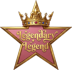
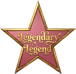
Portada AS2 con el fondo nuevo

diff --git a/js/historia/05-ia-y-retos-escritos.js b/js/historia/05-ia-y-retos-escritos.js
@@ -563,6 +563,15 @@ Devuelve JSON {"lineas":[{"reina":"nombre","t":"lo que dice (máximo 28 palabras
     ];
     liveRounds(el, { title: "El Roast", icon: "🔥", kind: "roast (chiste de humor ácido)", attr: "comedia", rounds, ph: "Tu chiste..." }, done);
   }
+  // En los retos de personaje nadie se llama por su nombre drag: se cambia cada nombre de reina por el de su personaje
+  function inChar(t, map) {
+    let out = String(t || "");
+    Object.keys(map).filter((k) => k && map[k]).sort((a, b) => b.length - a.length).forEach((k) => {
+      const re = new RegExp(k.replace(/[.*+?^${}()|[\]\\]/g, "\\$&"), "g");
+      out = out.replace(re, map[k]);
+    });
+    return out;
+  }
   // Snatch Game en directo: eliges (o inventas) personaje y contestas a Supremme escribiendo
   function liveSnatch(el, done) {
     const chars = shuffle(SNATCH_FAMOSOS).slice(0, 4);
@@ -584,19 +593,24 @@ Devuelve JSON {"lineas":[{"reina":"nombre","t":"lo que dice (máximo 28 palabras
       const plan = await IA.chat(
         `Eres la guionista del Snatch Game de Drag Race España: Supremme de Luxe hace preguntas absurdas a las concursantes, que imitan a celebridades famosas (cantantes, actrices, presentadoras, iconos pop o personajes de ficción muy conocidos; nunca políticos). Es una parodia cariñosa: se exagera su estilo y su forma de hablar, sin citar ni inventarle frases reales, sin inventar escándalos ni datos de su vida privada y sin nada ofensivo. ${aiSeason()}`,
         `La protagonista ${S.queen.name} imita a: ${name} (tono ${tono}). Las rivales en el plató: ${rivals.map((q) => `${q.name} (${aiProfile(q)} ${idTxt(q)})`).join(" | ")}.
-Elige para cada rival una celebridad famosa distinta (española o internacional, reconocible por el público) que le pegue según su identidad, y escribe 4 preguntas de Supremme (máximo 20 palabras, absurdas y con chispa). Para cada pregunta, la respuesta de cada rival en personaje (SOLO las rivales, nunca ${S.queen.name}, que contesta la jugadora) (máximo 22 palabras; que alguna falle a veces).
+Elige para cada rival una celebridad famosa distinta (española o internacional, reconocible por el público) que le pegue según su identidad, y escribe 4 preguntas de Supremme. Como en el programa, Supremme se dirige a cada concursante SOLO por el nombre de la celebridad que imita (a la protagonista la llama ${name}), NUNCA por su nombre drag, y las concursantes también se llaman entre ellas por el nombre de su personaje (máximo 20 palabras, absurdas y con chispa). Para cada pregunta, la respuesta de cada rival en personaje (SOLO las rivales, nunca ${S.queen.name}, que contesta la jugadora) (máximo 22 palabras; que alguna falle a veces).
 Devuelve JSON {"rivales":[{"reina":"nombre","personaje":"nombre de la celebridad"}],"preguntas":[{"q":"...","respuestas":[{"reina":"nombre","t":"..."}]}]}`,
         { json: true, max: 1600, temp: 1 },
       );
       const pregs = (plan && Array.isArray(plan.preguntas) && plan.preguntas.length >= 3 ? plan.preguntas.slice(0, 4) : shuffle(SNATCH_PREGUNTAS).slice(0, 4).map((q) => ({ q, respuestas: [] }))).map((p) => (typeof p === "string" ? { q: p, respuestas: [] } : p));
       const pj = {};
-      ((plan && plan.rivales) || []).forEach((x) => x && x.reina && (pj[x.reina] = str(x.personaje)));
+      ((plan && plan.rivales) || []).forEach((x) => x && x.reina && str(x.personaje).trim() && (pj[x.reina] = str(x.personaje)));
+      const used = new Set([name, ...Object.values(pj)]);
+      rivals.forEach((q) => { if (!pj[q.name]) { const c = shuffle(SNATCH_FAMOSOS).find((f) => !used.has(f.name)); if (c) { pj[q.name] = c.name; used.add(c.name); } } });
+      const nm = { [S.queen.name]: name, ...pj };
+      const sayIn = (t) => inChar(IA.clean(str(t)), nm);
+      const panel = rivals.map((q) => pj[q.name]).filter(Boolean);
       const rounds = pregs.map((p, i) => ({
-        prompt: `🎤 Supremme: «${IA.clean(str(p.q))}»`,
+        prompt: `🎤 Supremme: «${sayIn(p.q)}»`,
         sub: `Eres ${name}. Contesta como si fueras esa persona.`,
         pre: [
-          ...(i === 0 ? rivals.filter((q) => pj[q.name]).map((q) => ({ who: "Supremme", t: `${q.name} viene como ${pj[q.name]}.`, cls: "host" })) : []),
-          ...((p.respuestas || []).filter((x) => x && x.t && rivals.some((q) => q.name === str(x.reina))).slice(0, 2).map((x) => ({ who: `${str(x.reina)}${pj[str(x.reina)] ? ` (${pj[str(x.reina)]})` : ""}`, t: IA.clean(str(x.t)), cls: "rival" }))),
+          ...(i === 0 ? [{ who: "Supremme", t: `¡Bienvenidas al Snatch Game! Hoy tenemos en el plató a ${[...panel, name].join(", ").replace(/, ([^,]*)$/, " y $1")}.`, cls: "host" }] : []),
+          ...((p.respuestas || []).filter((x) => x && x.t && rivals.some((q) => q.name === str(x.reina))).slice(0, 2).map((x) => ({ who: `${pj[str(x.reina)] || str(x.reina)} (${str(x.reina)})`, t: sayIn(x.t), cls: "rival" }))),
         ],
         ctx: `Snatch Game. ${S.queen.name} interpreta a ${name}. Pregunta de Supremme: ${str(p.q)}. Valora la gracia, que se mantenga en el personaje elegido y el remate. En tu reacción no imites ni pongas frases en boca de ese personaje: solo comenta la actuación.`,
         // Tras cada respuesta: Supremme sigue el juego como presentadora y otra concursante contesta desde su personaje
@@ -605,14 +619,15 @@ Devuelve JSON {"rivales":[{"reina":"nombre","personaje":"nombre de la celebridad
           const q2 = others.length ? pick1(others) : null;
           const r2 = await IA.chat(
             `Eres la guionista del Snatch Game de Drag Race España. Supremme de Luxe presenta el concurso y las reinas están metidas en sus personajes. Nadie critica ni valora a nadie: todo es juego, chistes y pullas dentro del personaje. Las reinas imitan a celebridades en clave de parodia cariñosa: exageran su estilo y su forma de hablar, sin citar frases reales, sin inventar escándalos de su vida privada y sin nada ofensivo.`,
-            `Pregunta de Supremme: «${str(p.q)}». ${S.queen.name} (haciendo de ${name}) ha contestado: «${v}».${q2 ? ` En el panel también está ${q2.name}, que hace de ${pj[q2.name]}.` : ""}
-Devuelve JSON {"supremme":"lo que dice Supremme como presentadora siguiendo el juego (máximo 18 palabras, sin valorar)"${q2 ? `,"rival":"lo que suelta ${q2.name} metida en su personaje, picando o siguiendo la broma (máximo 18 palabras)"` : ""}}`,
+            `Pregunta de Supremme: «${sayIn(p.q)}». ${name} ha contestado: «${v}».${q2 ? ` En el panel también está ${pj[q2.name]}.` : ""}
+Supremme y las concursantes se llaman SOLO por el nombre de su personaje (${[name, ...panel].join(", ")}); nunca uses otros nombres.
+Devuelve JSON {"supremme":"lo que dice Supremme como presentadora siguiendo el juego (máximo 18 palabras, sin valorar)"${q2 ? `,"rival":"lo que suelta ${pj[q2.name]}, metida en su personaje, picando o siguiendo la broma (máximo 18 palabras)"` : ""}}`,
             { json: true, max: 220, temp: 1, timeout: 15000 },
           ).catch(() => null);
           if (!r2) return null;
           return [
-            r2.supremme ? { who: "Supremme", t: IA.clean(str(r2.supremme)), cls: "host" } : null,
-            q2 && r2.rival ? { who: `${q2.name} (${pj[q2.name]})`, t: IA.clean(str(r2.rival)), cls: "rival" } : null,
+            r2.supremme ? { who: "Supremme", t: sayIn(r2.supremme), cls: "host" } : null,
+            q2 && r2.rival ? { who: `${pj[q2.name]} (${q2.name})`, t: sayIn(r2.rival), cls: "rival" } : null,
           ];
         },
       }));
@@ -636,42 +651,49 @@ Devuelve JSON {"supremme":"lo que dice Supremme como presentadora siguiendo el j
     IA.chat(
       `Eres la directora del reto de improvisación de Drag Race España: un grupo de reinas improvisa una escena cómica, cada una con un personaje. ${aiSeason()}`,
       `El grupo: ${S.queen.name} (la jugadora) y ${mates.map((q) => `${q.name} (${aiProfile(q)} ${idTxt(q)})`).join(" | ")}.
-Inventa una escena cómica y concreta (lugar y conflicto). Si la escena es de teletienda o anuncio, ${prodHint(prodI)} y escríbelo en "producto" (si no, deja "producto" vacío). Un personaje para cada rival que encaje con su identidad, y 3 personajes posibles para ${S.queen.name}. Cada personaje en una frase corta de 12 palabras como máximo.
-Devuelve JSON {"escena":"premisa en 25 palabras","producto":"","personajes":[{"reina":"nombre","personaje":"..."}],"opciones":["...","...","..."]}`,
+Inventa una escena cómica y concreta (lugar y conflicto). Si la escena es de teletienda o anuncio, ${prodHint(prodI)} y escríbelo en "producto" (si no, deja "producto" vacío). Un personaje para cada rival que encaje con su identidad, y 3 personajes posibles para ${S.queen.name}. Cada personaje tiene un nombre inventado (por ejemplo «Doña Remedios» o «la Condesa de Albacete»), NUNCA el nombre de una reina, y una descripción corta de 12 palabras como máximo.
+Devuelve JSON {"escena":"premisa en 25 palabras","producto":"","personajes":[{"reina":"nombre de la reina","nombre":"nombre del personaje","personaje":"descripción"}],"opciones":[{"nombre":"nombre del personaje","personaje":"descripción"}]}`,
       { json: true, max: 700, temp: 1 },
     ).then((plan) => {
       if (!plan || !plan.escena) return liveImproSolo(el, done);
       logEv(`Escena de la impro: ${cutWords(IA.clean(str(plan.escena)), 160)}`);
       if (str(plan.producto).trim()) logEv(`En la escena se vende: ${cutWords(IA.clean(str(plan.producto)), 80)}`);
-      const pj = {};
-      (Array.isArray(plan.personajes) ? plan.personajes : []).forEach((x) => x && x.reina && (pj[str(x.reina)] = cutWords(IA.clean(str(x.personaje)), 110)));
-      mates.forEach((q) => (pj[q.name] = pj[q.name] || "un personaje secundario"));
-      const opts = (Array.isArray(plan.opciones) ? plan.opciones : []).map((x) => cutWords(IA.clean(str(x)), 150)).filter(Boolean).slice(0, 3);
+      const pj = {}, pn = {};
+      const queens = [S.queen, ...S.rivals].map((q) => q.name);
+      const okName = (n) => n && !queens.includes(n);
+      (Array.isArray(plan.personajes) ? plan.personajes : []).forEach((x) => { if (!x || !x.reina) return; pj[str(x.reina)] = cutWords(IA.clean(str(x.personaje)), 110); const n = cutWords(IA.clean(str(x.nombre)), 40); if (okName(n)) pn[str(x.reina)] = n; });
+      const spare = shuffle(["Doña Remedios", "la Condesa de Albacete", "Mari Puri", "la Duquesa de Cuenca", "Encarni la del quinto", "Madame Lulú", "la Baronesa Von Tacón"]);
+      mates.forEach((q) => { pj[q.name] = pj[q.name] || "un personaje secundario"; pn[q.name] = pn[q.name] || spare.find((n) => !Object.values(pn).includes(n)); });
+      const opts = (Array.isArray(plan.opciones) ? plan.opciones : []).map((x) => typeof x === "string" ? { n: cutWords(IA.clean(x), 60), d: "" } : x && { n: cutWords(IA.clean(str(x.nombre)), 40), d: cutWords(IA.clean(str(x.personaje)), 110) }).filter((o) => o && okName(o.n)).slice(0, 3);
       el.innerHTML = `
         <div class="story-card live">
           <p class="eyebrow">📺 Improvisación en grupo</p>
           <h3>${esc(IA.clean(str(plan.escena)))}</h3>
-          <div class="impro-cast">${mates.map((q) => `<span><i style="background-image:url('${photo(q)}')"></i><b>${esc(q.name)}</b><small>${esc(pj[q.name])}</small></span>`).join("")}</div>
+          <div class="impro-cast">${mates.map((q) => `<span><i style="background-image:url('${photo(q)}')"></i><b>${esc(pn[q.name])}</b><small>${esc(q.name)} · ${esc(pj[q.name])}</small></span>`).join("")}</div>
           <p class="muted">¿Qué personaje eres tú?</p>
-          <div class="choice-col">${opts.map((o, i) => `<button class="btn btn-ghost" data-o="${i}">${esc(o)}</button>`).join("")}</div>
+          <div class="choice-col">${opts.map((o, i) => `<button class="btn btn-ghost role" data-o="${i}"><b>${esc(o.n)}</b>${o.d ? `<small>${esc(o.d)}</small>` : ""}</button>`).join("")}</div>
           <form class="ft-form"><input id="im-own" maxlength="80" autocomplete="off" placeholder="O inventa tu personaje..."><button class="btn btn-primary">Usar</button></form>
         </div>`;
       el.querySelectorAll("[data-o]").forEach((b) => b.addEventListener("click", () => play(opts[+b.dataset.o])));
-      el.querySelector(".ft-form").addEventListener("submit", (e) => { e.preventDefault(); const v = el.querySelector("#im-own").value.trim(); if (v) play(v); });
-      function play(mine) {
+      el.querySelector(".ft-form").addEventListener("submit", (e) => { e.preventDefault(); const v = el.querySelector("#im-own").value.trim(); if (v) play({ n: v, d: "" }); });
+      function play(me) {
+        const mine = me.d ? `${me.n}, ${me.d}` : me.n;
+        pn[S.queen.name] = me.n;
+        const sayIn = (t) => inChar(IA.clean(str(t)), pn);
         const scene = IA.clean(str(plan.escena));
         const log = [];
         let turn = 0, mineN = 0;
         const TURNS = 5;
-        const castTxt = () => [`${S.queen.name} (jugadora) es ${mine}`, ...mates.map((q) => `${q.name} es ${pj[q.name]}. ${idTxt(q)}`)].join(". ");
-        const transcript = () => log.map((m) => `${m.who}: ${m.t}`).join("\n");
+        const castTxt = () => [`${S.queen.name} (jugadora) hace de ${mine}`, ...mates.map((q) => `${q.name} hace de ${pn[q.name]}, ${pj[q.name]}. ${idTxt(q)}`)].join(". ");
+        const transcript = () => log.map((m) => `${pn[m.who] || m.who} [${m.who}]: ${m.t}`).join("\n");
+        const nameRule = `En la escena se llaman SOLO por el nombre de su personaje (${Object.values(pn).join(", ")}), NUNCA por el nombre drag de la reina que lo interpreta.`;
         const draw = (wait) => {
           el.innerHTML = `
             <div class="story-card live">
               <p class="eyebrow">📺 Improvisación en grupo · ${Math.min(turn + 1, TURNS)}/${TURNS}</p>
               <p class="muted"><b>Escena:</b> ${esc(scene)} · <b>Tú:</b> ${esc(mine)}</p>
-              <div class="live-log">${log.map((m) => `<p class="lv ${m.me ? "me" : "rival"}"><b>${esc(m.who)}${m.me ? "" : ` · ${esc(pj[m.who] || "")}`}</b>${esc(m.t)}</p>`).join("")}${wait ? `<div class="ia-dots"><i></i><i></i><i></i></div>` : ""}</div>
-              ${wait ? "" : `<form class="ft-form"><input id="lv-in" maxlength="220" autocomplete="off" placeholder="Lo que dice o hace ${esc(mine)}..."><button class="btn btn-primary">¡En escena!</button></form>`}
+              <div class="live-log">${log.map((m) => `<p class="lv ${m.me ? "me" : "rival"}"><b>${esc(pn[m.who] || m.who)} (${m.me ? "tú" : esc(m.who)})</b>${esc(m.t)}</p>`).join("")}${wait ? `<div class="ia-dots"><i></i><i></i><i></i></div>` : ""}</div>
+              ${wait ? "" : `<form class="ft-form"><input id="lv-in" maxlength="220" autocomplete="off" placeholder="Lo que dice o hace ${esc(me.n)}..."><button class="btn btn-primary">¡En escena!</button></form>`}
             </div>`;
           const box = el.querySelector(".live-log");
           if (box) box.scrollTop = box.scrollHeight;
@@ -683,14 +705,14 @@ Devuelve JSON {"escena":"premisa en 25 palabras","producto":"","personajes":[{"r
         async function others() {
           draw(true);
           const r = await IA.chat(
-            `Escribes las intervenciones de las rivales en una improvisación en grupo de Drag Race España. Cada una habla SOLO como su personaje, reaccionando a lo último que ha pasado, siguiendo la escena y dando pie a la jugadora. Nunca escribas lo que dice ${S.queen.name}.`,
+            `Escribes las intervenciones de las rivales en una improvisación en grupo de Drag Race España. Cada una habla SOLO como su personaje, reaccionando a lo último que ha pasado, siguiendo la escena y dando pie a la jugadora. Nunca escribas lo que dice ${S.queen.name}. ${nameRule}`,
             `Escena: ${scene}\nReparto: ${castTxt()}\n${log.length ? `Lo que ha pasado:\n${transcript()}` : "La escena empieza ahora."}\n${turn === TURNS - 1 ? "Es el último turno: buscad un final." : ""}
 Devuelve JSON {"lineas":[{"reina":"nombre de una rival","t":"lo que dice o hace (máximo 25 palabras)"}]} con 1 o 2 intervenciones.`,
             { json: true, max: 400, temp: 1 },
           );
           const ls = (r && Array.isArray(r.lineas) ? r.lineas : []).filter((x) => x && mates.some((q) => q.name === str(x.reina)) && str(x.t).trim()).slice(0, 2);
           if (!ls.length) ls.push({ reina: mates[0].name, t: pick1(["¿Y ahora qué hacemos?", "¡Esto no estaba en el guion!", "Bueno, yo sigo, que el público espera."]) });
-          ls.forEach((x) => log.push({ who: str(x.reina), t: IA.clean(str(x.t)) }));
+          ls.forEach((x) => log.push({ who: str(x.reina), t: sayIn(x.t) }));
           draw();
         }
         function mineLine(v) {
@@ -704,7 +726,7 @@ Devuelve JSON {"lineas":[{"reina":"nombre de una rival","t":"lo que dice o hace 
           draw(true);
           const r = await IA.chat(
             `Eres el jurado de Drag Race España valorando una improvisación en grupo. Valora a cada reina por separado: gracia, escucha (si reacciona a las demás), personaje y si hace avanzar la escena. Un aporte vacío o que ignora la escena puntúa bajo (10-35); correcto 50-65; brillante 75-95.`,
-            `Escena: ${scene}\nReparto: ${castTxt()}\nTranscripción:\n${transcript()}\nDevuelve JSON {"notas":[{"reina":"nombre","nota":0-100}],"supreme":"comentario de Supremme sobre la escena (máximo 30 palabras, sin notas, números ni posiciones)","mejor":"nombre de la que más ha destacado"}`,
+            `Escena: ${scene}\nReparto: ${castTxt()}\nTranscripción:\n${transcript()}\nDevuelve JSON {"notas":[{"reina":"nombre","nota":0-100}],"supreme":"comentario de Supremme sobre la escena (máximo 30 palabras, sin notas, números ni posiciones; si nombra a alguien, por el nombre de su personaje)","mejor":"nombre de la que más ha destacado"}`,
             { json: true, max: 400, temp: 0.6 },
           );
           const notas = {};
@@ -716,8 +738,8 @@ Devuelve JSON {"lineas":[{"reina":"nombre de una rival","t":"lo que dice o hace 
           el.innerHTML = `
             <div class="story-card live">
               <p class="eyebrow">📺 Improvisación en grupo · resultado</p>
-              <div class="live-log">${log.map((m) => `<p class="lv ${m.me ? "me" : "rival"}"><b>${esc(m.who)}</b>${esc(m.t)}</p>`).join("")}</div>
-              ${(juryNote(r && r.supreme), juryWait)}
+              <div class="live-log">${log.map((m) => `<p class="lv ${m.me ? "me" : "rival"}"><b>${esc(pn[m.who] || m.who)} (${m.me ? "tú" : esc(m.who)})</b>${esc(m.t)}</p>`).join("")}</div>
+              ${(juryNote(r && r.supreme && sayIn(r.supreme)), juryWait)}
               <div class="impro-cast">${[{ q: S.queen, n: myN }, ...mates.map((q) => ({ q, n: notas[q.name] }))].map((x) => `<span><i style="background-image:url('${photo(x.q)}')"></i><b>${esc(x.q === S.queen ? "Tú" : x.q.name)}</b><small></small></span>`).join("")}</div>
               <button class="btn btn-primary" id="lv-done">Continuar</button>
             </div>`;
@@ -737,7 +759,7 @@ Devuelve JSON {"lineas":[{"reina":"nombre de una rival","t":"lo que dice o hace 
     IA.chat(
       `Eres guionista del reto de interpretación de Drag Race España, dirigido por los Javis. Escribes una escena corta con guion cerrado (no se improvisa), parodia de un género, con humor drag. ${aiSeason()}`,
       `Reparto disponible: ${S.queen.name} (la jugadora) y ${mates.map((q) => q.name).join(", ")} (${mates.length + 1} actrices).
-Los papeles son personajes de ficción con nombres inventados (por ejemplo «Doña Remedios» o «la Condesa de Albacete»), NUNCA los nombres de las reinas.
+Los papeles son personajes de ficción con nombres inventados (por ejemplo «Doña Remedios» o «la Condesa de Albacete»), NUNCA los nombres de las reinas. En el guion los personajes se llaman entre sí SOLO por el nombre de su papel.
 ${/teletienda/i.test(S.curTitulo || "") ? `Es una parodia de teletienda. ${prodHint(S.weekProd = nextProducto())} ` : ""}Escribe: título, género, sinopsis, ${mates.length + 1} papeles (uno protagonista de peso grande, dos o tres de peso medio y el resto pequeño) y un guion de ${Math.max(9, mates.length * 2 + 3)} a ${Math.max(12, mates.length * 2 + 6)} líneas repartidas entre TODOS los papeles (el protagonista con 3 o 4 líneas, cada papel al menos con 1). Cada línea lleva el tono correcto según la acotación (dramatico, comico, contenido o exagerado), una acotación breve y una "clave": una palabra o expresión corta y memorable que aparece literalmente en esa línea.
 Devuelve JSON {"titulo":"...","genero":"...","sinopsis":"...","papeles":[{"papel":"nombre del personaje","descripcion":"...","peso":"grande|medio|pequeño"}],"guion":[{"papel":"...","t":"texto de la línea","acotacion":"...","tono":"dramatico|comico|contenido|exagerado","clave":"..."}]}`,
       { json: true, max: 3600, temp: 1, timeout: 40000 },
@@ -775,6 +797,10 @@ Devuelve JSON {"titulo":"...","genero":"...","sinopsis":"...","papeles":[{"papel
         if (lead) cast[str(lead.papel)] = rival;
         const others = roles.filter((r) => !cast[str(r.papel)]);
         mates.filter((q) => q !== (lead && rival)).forEach((q, i) => others[i] && (cast[str(others[i].papel)] = q));
+        // En el guion se llaman por el papel, nunca por el nombre drag
+        const nmA = {};
+        Object.entries(cast).forEach(([papel, q]) => q && (nmA[q.name] = papel));
+        lines.forEach((l) => (l.t = inChar(str(l.t), nmA)));
         rehearse(g, mine, cast, lines, note);
       }));
     }
@@ -911,14 +937,16 @@ Devuelve JSON {"ambrossi":"comentario a ${S.queen.name} (máximo 30 palabras)","
       const guest = pick1(S.rivals);
       aiWait("Preparando el plató...", el);
       const prod = sec === "teletienda" ? nextProducto() : null;
-      logEv(prod ? `Teletienda: ${S.queen.name} vende ${prod}` : `Impro: ${S.queen.name} conduce la sección de ${sec}${sec === "entrevista" ? ` con ${guest.name} de invitada` : ""}`);
-      const ev = await IA.chat("Eres la regidora de un programa de televisión improvisado en Drag Race España.", `La sección es ${sec}${sec === "entrevista" ? ` y la invitada es ${guest.name}` : ""}.${prod ? ` ${prodHint(prod)} La presentadora lo tiene que vender.` : ""} Escribe 3 imprevistos o preguntas cortas (máximo 18 palabras cada una) que obliguen a la presentadora a improvisar. Devuelve JSON con "momentos": lista de 3 textos.`, { json: true, max: 200 });
-      const moms = (ev && Array.isArray(ev.momentos) && ev.momentos.length >= 3 ? ev.momentos : ["El teleprompter se apaga en mitad de la frase.", "Se cae un decorado detrás de ti.", "La regidora te dice que te quedan 10 segundos."]).slice(0, 3).map(IA.clean);
+      logEv(prod ? `Teletienda: ${S.queen.name} vende ${prod}` : `Impro: ${S.queen.name} conduce la sección de ${sec}${sec === "entrevista" ? ` con ${guest.name} de invitada, en personaje` : ""}`);
+      const ev = await IA.chat("Eres la regidora de un programa de televisión improvisado en Drag Race España.", `La sección es ${sec}${sec === "entrevista" ? `. La invitada la interpreta ${guest.name} (${aiProfile(guest)}): inventa su personaje, con un nombre inventado que NO sea el de ninguna reina, y en los imprevistos llámala solo por ese nombre` : ""}.${prod ? ` ${prodHint(prod)} La presentadora lo tiene que vender.` : ""} Escribe 3 imprevistos o preguntas cortas (máximo 18 palabras cada una) que obliguen a la presentadora a improvisar. Devuelve JSON con "momentos": lista de 3 textos${sec === "entrevista" ? `, e "invitada": el nombre del personaje` : ""}.`, { json: true, max: 260 });
+      const gn = sec === "entrevista" ? ((ev && str(ev.invitada).trim() && ![S.queen, ...S.rivals].some((q) => q.name === str(ev.invitada).trim())) ? cutWords(IA.clean(str(ev.invitada)), 40) : pick1(SNATCH_PERSONAJES).name) : "";
+      const gIn = (t) => inChar(IA.clean(str(t)), { [guest.name]: gn });
+      const moms = (ev && Array.isArray(ev.momentos) && ev.momentos.length >= 3 ? ev.momentos : ["El teleprompter se apaga en mitad de la frase.", "Se cae un decorado detrás de ti.", "La regidora te dice que te quedan 10 segundos."]).slice(0, 3).map((m) => (gn ? gIn(m) : IA.clean(m)));
       const rounds = moms.map((m, i) => ({
         prompt: `${i === 0 && prod ? `🛒 Vendes ${prod}. ` : ""}🔴 ${m}`,
         sub: "¡Estás en directo! ¿Qué dices?",
-        ctx: `Improvisación en directo, sección ${sec}${sec === "entrevista" ? ` con la invitada ${guest.name}` : ""}${prod ? ` vendiendo ${prod}` : ""}. Imprevisto: ${m}`,
-        after: sec === "entrevista" ? async (v) => { const rep = await IA.chat(`Hablas SOLO como ${guest.name}, invitada a una entrevista en directo. ${aiProfile(guest)}`, `La presentadora ${S.queen.name} te dice: «${v}». Contesta en una frase corta y graciosa (máximo 15 palabras).`, { max: 50 }); return rep ? { who: guest.name, t: rep, cls: "rival" } : null; } : null,
+        ctx: `Improvisación en directo, sección ${sec}${sec === "entrevista" ? ` con la invitada ${gn}` : ""}${prod ? ` vendiendo ${prod}` : ""}. Imprevisto: ${m}`,
+        after: sec === "entrevista" ? async (v) => { const rep = await IA.chat(`Hablas SOLO como ${gn}, el personaje que interpreta ${guest.name}, invitada a una entrevista en directo. ${aiProfile(guest)} Nunca digas nombres drag de las reinas.`, `La presentadora te dice: «${v}». Contesta en una frase corta y graciosa (máximo 15 palabras).`, { max: 50 }); return rep ? { who: `${gn} (${guest.name})`, t: gIn(rep), cls: "rival" } : null; } : null,
       }));
       el.innerHTML = "";
       liveRounds(el, { title: "Improvisación", icon: "📺", kind: "improvisación televisiva", attr: "carisma", rounds, ph: "Lo que dices en directo..." }, (sc) => { if (sc >= 80) growAttr(sc > 90 ? "comedia" : "carisma"); done(sc); });
@@ -965,7 +993,7 @@ Devuelve JSON {"ambrossi":"comentario a ${S.queen.name} (máximo 30 palabras)","
     IA.chat(
       `Eres la guionista y letrista del Rusical de Drag Race España: un musical paródico, cantado, con humor drag. ${aiSeason()}`,
       `Tema del Rusical: ${tema}. Reparto: ${S.queen.name} (la jugadora) y ${mates.map((q) => q.name).join(", ")} (${mates.length + 1} reinas).
-Los papeles son personajes de ficción con nombres inventados (el campo "papel" es el nombre del personaje, nunca su peso), NUNCA los nombres de las reinas.
+Los papeles son personajes de ficción con nombres inventados (el campo "papel" es el nombre del personaje, nunca su peso), NUNCA los nombres de las reinas. En la letra los personajes se llaman SOLO por el nombre de su papel.
 Escribe: título, sinopsis (máximo 25 palabras), ${mates.length + 1} papeles (uno protagonista de peso "grande", el resto "medio" o "pequeño") qué papel quiere cada rival (${mates.map((q) => q.name).join(", ")}) con una frase suya, natural y en su estilo (máximo 20 palabras), en la que se lo cuenta a ${S.queen.name}, y la letra: entre ${Math.max(7, mates.length + 4)} y ${Math.max(9, mates.length + 6)} estrofas en orden, repartidas entre los papeles (el protagonista con 3, cada uno de los demás con al menos 1). Cada estrofa son 2 versos cortos (máximo 10 palabras cada uno) que riman entre sí.
 Devuelve JSON {"titulo":"...","sinopsis":"...","papeles":[{"papel":"...","descripcion":"...","peso":"grande|medio|pequeño"}],"deseos":[{"reina":"nombre","papel":"...","frase":"..."}],"letra":[{"papel":"...","versos":["...","..."]}]}`,
       { json: true, max: 3200, temp: 1, timeout: 40000 },

diff --git a/js/historia/09-maxirretos-y-api.js b/js/historia/09-maxirretos-y-api.js
@@ -3,6 +3,16 @@
     if (IA.ready() && !mxSnatch.classic) return aiOrClassic(el, "Snatch Game", "🎭", () => liveSnatch(el, done), () => { mxSnatch.classic = true; mxSnatch(el, (sc) => { mxSnatch.classic = false; done(sc); }); });
     const chars = shuffle(SNATCH_PERSONAJES).slice(0, 3);
     const qs = shuffle(SNATCH_PREGUNTAS).slice(0, 5);
+    // En el plató cada rival es su personaje: se la nombra así, nunca por su nombre drag
+    const rc = (st, r) => {
+      st.rc = st.rc || {};
+      if (!st.rc[r.id]) {
+        const taken = [st.char, ...Object.values(st.rc)];
+        const c = shuffle(SNATCH_PERSONAJES).find((x) => !taken.includes(x)) || pick1(SNATCH_PERSONAJES);
+        st.rc[r.id] = c;
+      }
+      return st.rc[r.id].name;
+    };
     const steps = [
       () => ({
         q: "🎭 ¿A quién imitas?",
@@ -15,7 +25,7 @@
         steps.push((st) => {
           const r = pick1(S.rivals);
           return {
-            q: `😶 ${esc(r.name)} se queda en blanco...`,
+            q: `😶 ${esc(rc(st, r))} se queda en blanco...`,
             sub: "Hay un silencio incómodo en el plató. ¿Aprovechas?",
             opts: [
               { t: "🎯 Robar la atención y rematar el chiste", d: "Comedia + Carisma", go: (s) => { s.focus += 18; const c = check(["comedia", "carisma"], 58); if (c.ok) changeRel(r, -1); return res(c, 100, 22, "¡Remate perfecto! Te llevas la risa.", "Intentas rematar... y la pisas. Nadie se ríe."); } },
@@ -31,7 +41,7 @@
           sub: `Eres <b>${esc(ch.name)}</b>. Pregunta ${n + 1}/5.`,
           opts: [
             { t: `😂 «${esc(pick1(ch.frases))}»`, d: "Comedia absurda", tag: "Comedia", go: (s) => { s.focus += 14; return res(check(["comedia"], 52), 90, 30, "¡Carcajada general!", "Nadie lo pilla. Grillos."); } },
-            { t: `⚡ Replicar a ${esc(r.name)}`, d: "Carisma · sube mucho el foco y crea drama", tag: "Carisma", go: (s) => { s.focus += 24; s.drama = (s.drama || 0) + 1; changeRel(r, -1); return res(check(["carisma"], 55), 94, 34, `¡Le has dado un zasca a ${esc(r.name)} y el plató explota!`, "La réplica suena a ataque. Tensión, no risas."); } },
+            { t: `⚡ Replicar a ${esc(rc(st, r))}`, d: "Carisma · sube mucho el foco y crea drama", tag: "Carisma", go: (s) => { s.focus += 24; s.drama = (s.drama || 0) + 1; changeRel(r, -1); return res(check(["carisma"], 55), 94, 34, `¡Le has dado un zasca a ${esc(rc(st, r))} y el plató explota!`, "La réplica suena a ataque. Tensión, no risas."); } },
             { t: `🛡 «${esc(pick1(SNATCH_PLANAS))}»`, d: "Respuesta segura", tag: "Segura", go: (s) => { s.focus -= 12; return { pts: 48, msg: "Correcta. Poco memorable." }; } },
           ],
         };

diff --git a/js/historia/01-flujo-y-relaciones.js b/js/historia/01-flujo-y-relaciones.js
@@ -154,7 +154,7 @@
           })() : ""}
           ${(() => {
             // All Winners: lo que cuenta son las estrellas
-            if (se.special === "winners" || (seasonById(d.season) || {}).special === "winners") { const st = (d.stars || {}).me || 0; return `<p class="muted ll-count">${st ? `<img src="./images/legendary-star-sm.png" alt=""> ${st} ${st === 1 ? "Legendary Legend Star" : "Legendary Legend Stars"}` : "Aún sin estrellas"}</p>`; }
+            if (se.special === "winners" || (seasonById(d.season) || {}).special === "winners") { const st = (d.stars || {}).me || 0; return `<p class="muted ll-count">${st ? `<img src="./images/legendary-star-sm.png?v=2" alt=""> ${st} ${st === 1 ? "Legendary Legend Star" : "Legendary Legend Stars"}` : "Aún sin estrellas"}</p>`; }
             const w = Object.values((d.track || {}).me || {}).filter((l) => l === "WIN" || l === "BWIN").length;
             return `<p class="muted">${w ? `${w} ${w === 1 ? "reto ganado" : "retos ganados"}` : "Aún sin victorias"}</p>`;
           })()}

diff --git a/js/historia/02-episodio-y-eliminacion.js b/js/historia/02-episodio-y-eliminacion.js
@@ -1379,7 +1379,7 @@ Devuelve JSON {"criticas":[{"reina":"nombre","reto":"...","pasarela":"...","javi
   // All Stars: las dos del top hacen lip sync; la ganadora elige a quién mandar a casa
   const winLab = (q) => (twistOf() === "winners" && S.block && S.block.ep === S.ep && S.block.id === keyOf(q) ? "BWIN" : "WIN");
   // All Winners: en medio de las dos del top, la Legendary Legend Star que se juegan
-  const vsMid = (txt) => (twistOf() === "winners" ? `<img class="ll-vs" src="./images/legendary-star.png" alt="Legendary Legend Star">` : `<span>${txt}</span>`);
+  const vsMid = (txt) => (twistOf() === "winners" ? `<img class="ll-vs" src="./images/legendary-star.png?v=2" alt="Legendary Legend Star">` : `<span>${txt}</span>`);
   function topLipSync(top2, then) {
     flowGo("lipsync");
     const [a, b] = top2;

diff --git a/js/historia/03-temporada-y-final.js b/js/historia/03-temporada-y-final.js
@@ -299,7 +299,7 @@
     const starred = keys.filter((x) => x !== blockedKey).map((x) => (x === "me" ? S.queen : qById(x))).filter(Boolean);
     const award = starred.length ? `
       <div class="ll-award">
-        <img class="ll-star" src="./images/legendary-star.png" alt="Legendary Legend Star">
+        <img class="ll-star" src="./images/legendary-star.png?v=2" alt="Legendary Legend Star">
         <div><p class="ll-title">Legendary Legend Star${starred.length > 1 ? "s" : ""}${S.ep === winnersWeeks() ? " ×3" : ""}</p>
         <div class="call-faces">${starred.map((q) => `<span class="${q === S.queen ? "me" : ""}"><i style="background-image:url('${photo(q)}')"></i>${esc(q === S.queen ? "Tú" : q.name)}</span>`).join("")}</div></div>
       </div>` : "";

diff --git a/js/reinas.js b/js/reinas.js
@@ -252,7 +252,7 @@ const PORTADAS = {
   es5: "./images/temporadas/es5.jpg",
   es6: "./images/temporadas/es6.jpg",
   esas1: "./images/temporadas/esas1.jpg?v=3",
-  esas2: "./images/temporadas/esas2.jpg?v=2",
+  esas2: "./images/temporadas/esas2.jpg?v=4",
   escustom: "./images/temporadas/escustom.jpg",
   esaw: "./images/temporadas/esaw.jpg?v=6",
 };
